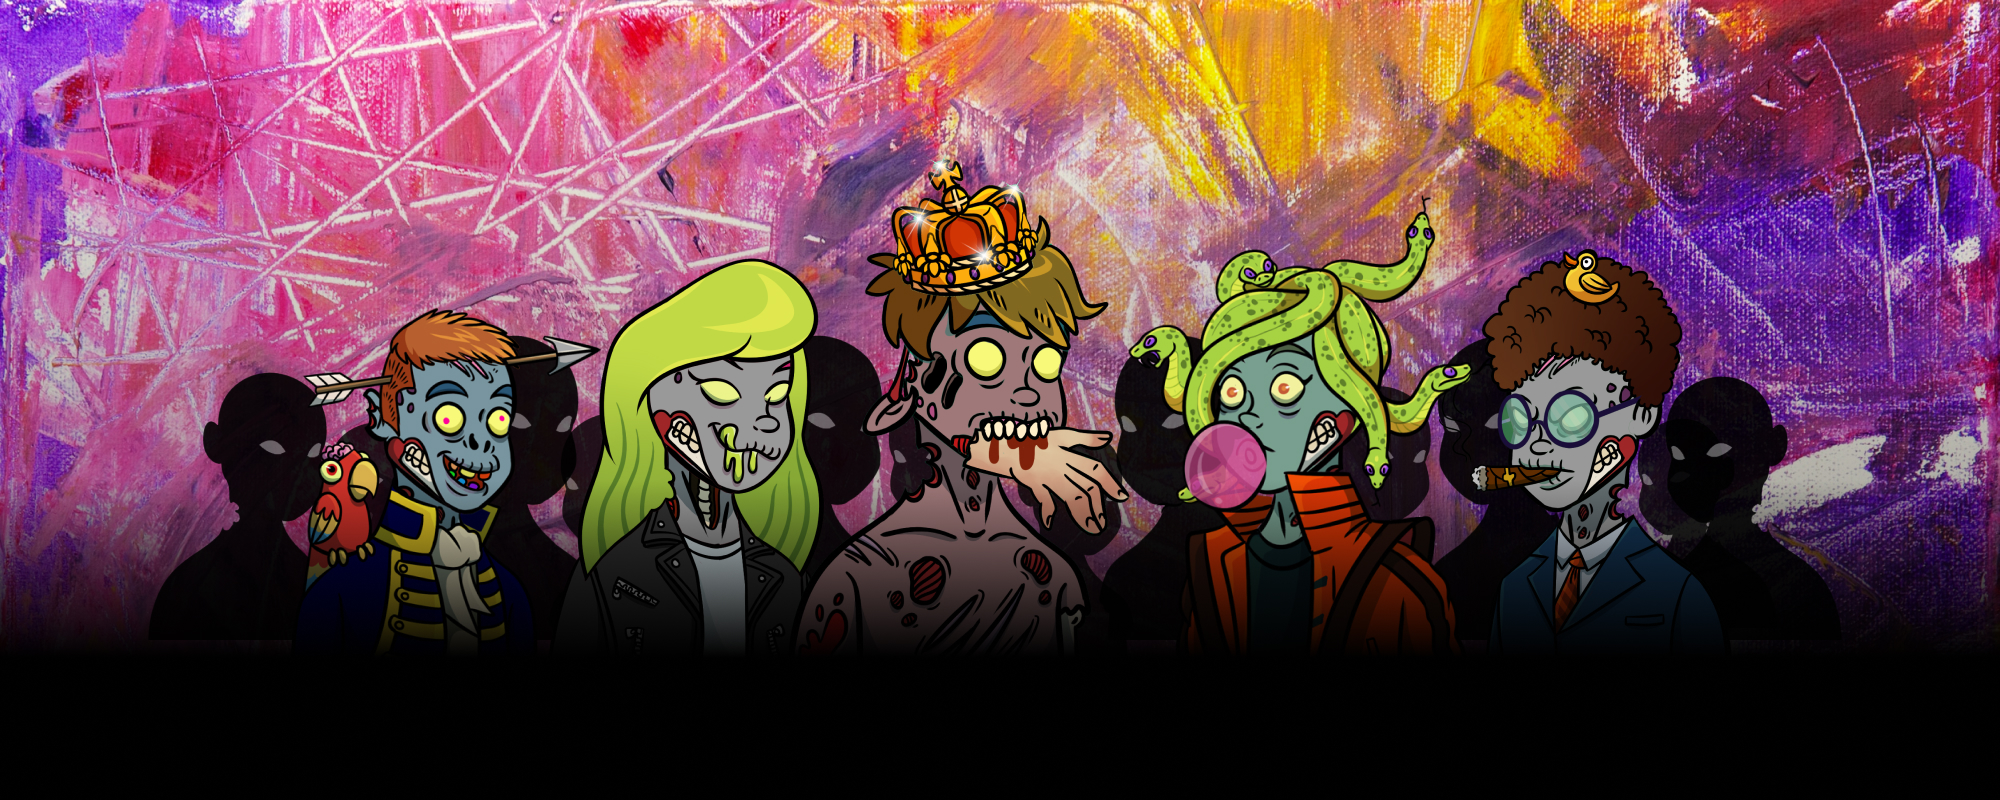
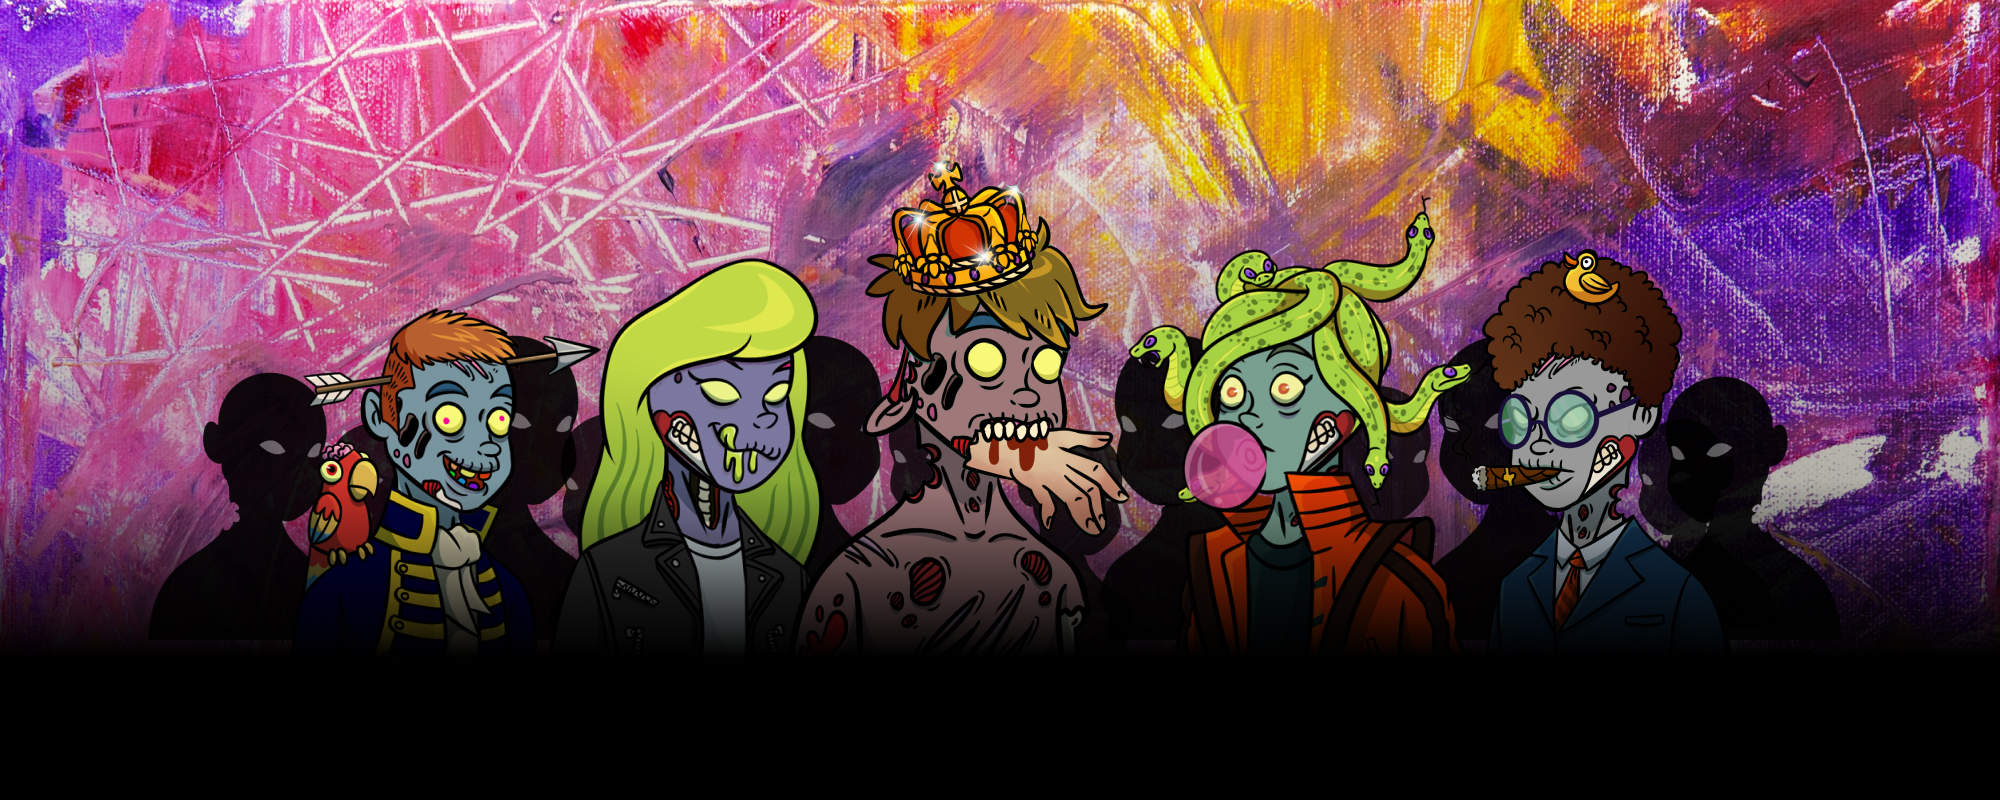
Updated goals section css. Updated hero img. Minor text changes. [DZ-13] [DZ-19] [DZ-20] [DZ-21]

diff --git a/src/Components/Mission.js b/src/Components/Mission.js
@@ -91,12 +91,30 @@ let Mission = props => {
         #goals {
             margin-top: 20px;
             display: grid;
-            grid-template-columns: repeat(auto-fill,minmax(360px, 1fr));
+            grid-template-areas: 
+                "a b c"
+                "d e e";
+            grid-template-rows: 1fr 1fr;
+            grid-template-columns: 1fr 1fr 1fr;
+
             @media (max-width: 960px) {
-                grid-template-columns: repeat(auto-fill,minmax(300px, 1fr));
+                grid-template-areas: 
+                    "a b"
+                    "c d"
+                    "e e";
+                    grid-template-rows: 1fr 1fr 1fr;
+                    grid-template-columns: 1fr 1fr;
             }
             @media (max-width: 640px) {
-                grid-template-columns: repeat(auto-fill,minmax(240px, 1fr));
+                grid-template-areas: 
+                    "a"
+                    "b"
+                    "c"
+                    "d"
+                    "e";
+                grid-template-rows: 1fr 1fr 1fr 1fr 1fr;
+                grid-template-columns: 1fr;
+                
             }
             
 
@@ -126,6 +144,13 @@ let Mission = props => {
                 }
             }
 
+            #goal1 { grid-area: a; }
+            #goal2 { grid-area: b; }
+            #goal3 { grid-area: c; }
+            #goal4 { grid-area: d; }
+            #goal5 { grid-area: e; }
+
+
             .goal-item-img img{
                 @media (max-width: 960px) {
                     width: 200px;
@@ -135,12 +160,17 @@ let Mission = props => {
                 }
             }
 
-            #end {
+            #goal5 {
                 text-align: center;
                 p {
                     font-size: 20px;
                     line-height: 30px;
                     color: #FFFFFF;
+                }
+
+                p.top {
+                    margin-top: 0;
+                    padding-top: 5px;
                 }
             }
         }
@@ -162,28 +192,27 @@ let Mission = props => {
             </div>
             <div css={clear}></div>
             <div className="common-padding" css={bottomText}>
-                <h2>GOALS</h2>
-                <h1>WHAT ARE THE NFZS TRYING TO DO?</h1>
+                <h1>GOALS</h1>
                 <div id="goals">
-                    <div className="goal-item">
+                    <div className="goal-item" id="goal1">
                         <h3>Make the NFZ experience Nice and Fun via Game Theory Mechanics</h3>
                         <p>We'll implement NFT game theory mechanics to make it <span className="green-highlight">FUN</span> to be a zombie. A perfect tie-in with zombies, thematic actions in the future will include <span className="green-highlight">horde challenges, hunting/searching</span> (similar to staking), and <span className="green-highlight">killing</span> (similar to burning).</p>
                     </div>
-                    <div className="goal-item">
+                    <div className="goal-item" id="goal2">
                         <h3>Deliver value via real world and virtual benefits</h3>
                         <p>We'll put our NFZ holders as the top priority and will work undyingly to make things Nice and Fun via <span className="green-highlight">partnerships, collaborations, airdrops, merchandise and more.</span> Real world brands will see the power of the horde community and the impact we can have.</p>
                     </div>
-                    <div className="goal-item">
+                    <div className="goal-item" id="goal3">
                         <h3>Build the ultimate zombie horde community</h3>
                         <p>We love NFTs and are <span className="green-highlight">creating a community to appreciate zombie trait NFTs</span> and celebrate achievements in the space. Additionally, our Discord will be a place to just kick back and have a nice fun chat about your favorite zombie movies, shows, comics, video games and more.</p>
                     </div>
-                    <div className="goal-item">
+                    <div className="goal-item" id="goa4">
                         <h3>Build the Nice Fun Zombie universe via art and storytelling</h3>
                         <p>The NFZ universe will unfold through unique NFT art and storytelling. <span className="green-highlight">Our zombies are misunderstood</span> - they didn't choose to be zombies yet the humans hunt and kill them. <span className="green-highlight">This is a story told from the zombie point of view.</span></p>
                     </div>
-                    <div className="goal-item" id="end">
-                        <p>We have many creative ideas for how our universe will expand and evolve.</p>
-                        <p><span className="green-highlight">Like NFTs, we’re only at the beginning.</span></p>
+                    <div className="goal-item" id="goal5">
+                        <p className="top">We have many creative ideas for how our universe will expand and evolve.<br />
+                        <span className="green-highlight">Like NFTs, we’re only at the beginning.</span></p>
                         <img src={pigeon} alt="pigeon" />
                     </div>
                 </div>

diff --git a/src/Components/Team.js b/src/Components/Team.js
@@ -1,6 +1,7 @@
 /** @jsxImportSource @emotion/react */
 import { css } from '@emotion/react'
 import teambg from '../assets/team_bg.jpg'
+import twitter from '../assets/icons/twitter.png'
 import ray from '../assets/bios/ray.png'
 import andy from '../assets/bios/andy.png'
 import bearheart from '../assets/bios/bearheart.png'
@@ -17,6 +18,11 @@ let Team = props => {
         background-position: center;
         background-repeat: no-repeat;
         background-size: cover;
+
+        .green-highlight {
+            color: #AFF038;
+            font-weight: 700;
+        }
 
         #team {
             padding-top: 64px;
@@ -73,15 +79,26 @@ let Team = props => {
             }
 
             h3 {
+                font-family: teko;
                 color: #FFFFFF;
-                font-size: 18px;
-                margin-bottom: 0;
+                font-size: 32px;
+                line-height: 32px;
+                font-weight: 400;
+                margin: 10px 0 0 0;
+
+                img {
+                    width: 27px;
+                    height: auto;
+                    float: right;
+                }
             }
 
             h4 {
                 color: #AFF038;
                 font-size: 14px;
+                line-height: 24.5px;
                 margin-top: 0px;
+                font-weight: 400;
             }
         }
     `
@@ -91,13 +108,13 @@ let Team = props => {
             <div className="common-padding" id="team" css={team}>
                 <h1>THE TEAM</h1>
                 <p>
-                    This project is NOT AFFILIATED with any companies listed in our backgrounds -<br />
+                    This project is <span className="green-highlight">NOT AFFILIATED</span> with any companies listed in our backgrounds -<br />
                     this is a separate passion project!
                 </p>
                 <div css={members}>
                     <div className="member" id="rayminbi">
                         <img src={ray} alt="bio" />
-                        <h3>@rayminbi | Raymond</h3>
+                        <h3>@rayminbi | Raymond <a href="https://twitter.com/rayminbi" target="_blank" rel="noreferrer"><img src={twitter} alt="twitter" /></a></h3>
                         <h4>Founder, Strategy, Brand, Marketing, Partnerships</h4>
                         <p>Marketing & Business lead for ESPN in Asia, NFT Enthusiast</p>
                         <p>Thinks twice about visiting Korea after watching Kingdom</p>
@@ -132,7 +149,7 @@ let Team = props => {
                     </div>
                     <div className="member" id="andywmi">
                         <img src={andy} alt="bio" />
-                        <h3>@andywmi</h3>
+                        <h3>@andywmi | Andy</h3>
                         <h4>Research Advisor</h4>
                         <p>Blockchain Maxi / Red Pill Guy</p>
                         <p>Goes to bed early so he doesn’t miss the Dawn of the Dead</p>
@@ -157,7 +174,7 @@ let Team = props => {
                 <div css={members}>
                     <div className="member" id="tert">
                         <img src={tert} alt="bio" />
-                        <h3>@TerT | Terence </h3>
+                        <h3>@TerT | Terence  <a href="https://twitter.com/Uni_Tert/" target="_blank" rel="noreferrer"><img src={twitter} alt="twitter" /></a></h3>
                         <h4>Strategic Advisor</h4>
                         <p>Founder, Uninterested Unicorns</p>
                         <p>Ensuring no Resident Evil falls upon this project</p>
